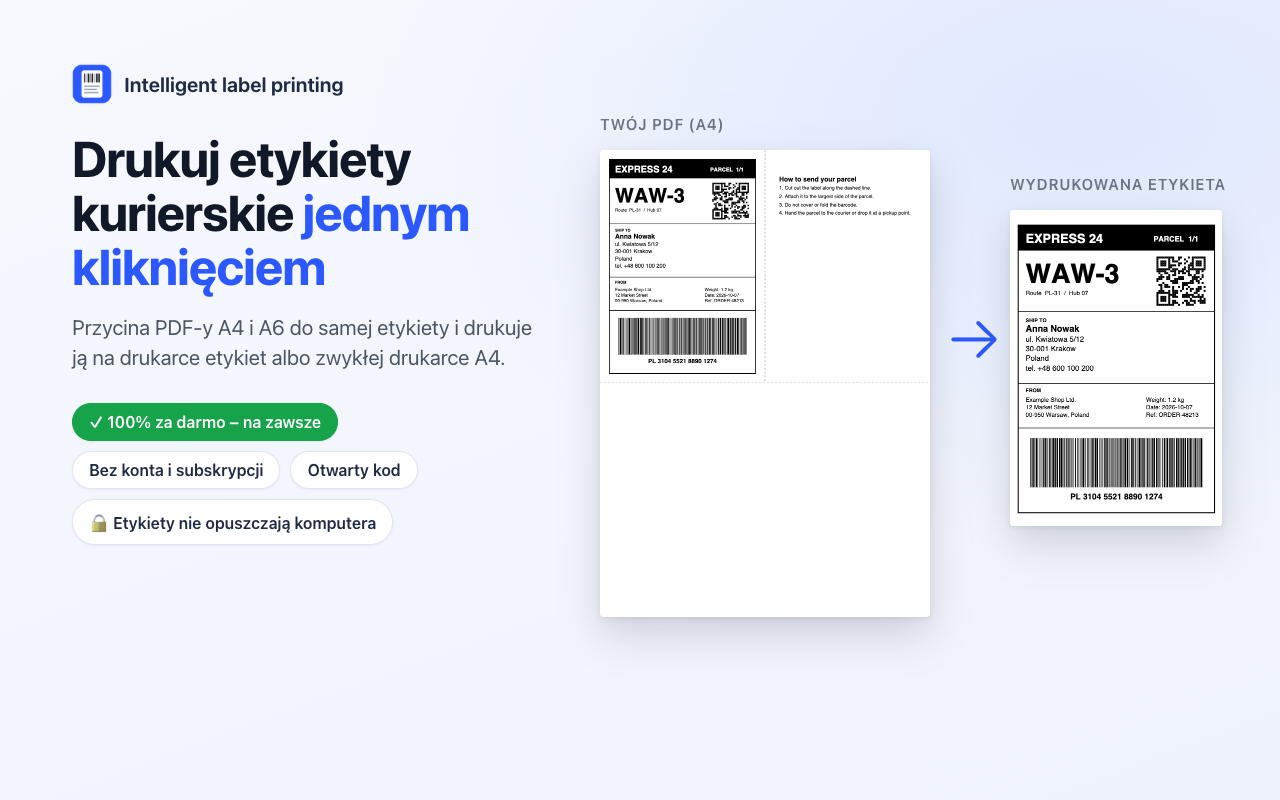
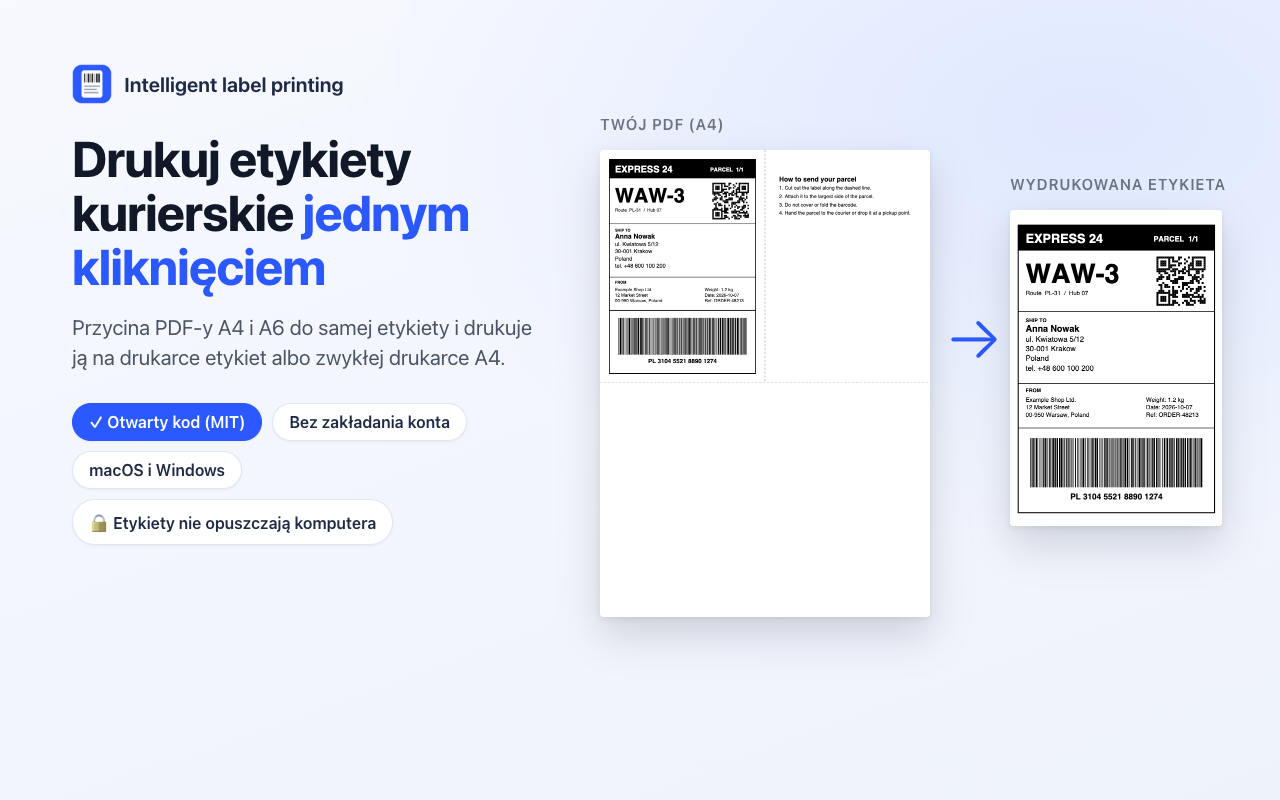
Store: remove "free" badges and wording from listing assets
The Web Store rejected the listing (Red Nickel): assets must not use
badges or keywords like "free". Screenshots and promo tiles now show
factual features; descriptions state there is no subscription, account
or paid version instead.

Changed region(s): [[0.0312, 0.5, 0.3438, 0.5938]]

diff --git a/store/screenshots/slide.html b/store/screenshots/slide.html
@@ -22,7 +22,7 @@
   .sub { font-size: 21px; line-height: 1.45; color: #4b5563; margin-top: 18px; }
   .badges { display: flex; flex-wrap: wrap; gap: 10px; margin-top: 30px; }
   .badge { display: inline-flex; align-items: center; gap: 8px; background: #fff; border: 1px solid #dfe5f2; border-radius: 999px; padding: 9px 16px; font-size: 16px; font-weight: 600; color: #1f2a44; box-shadow: 0 1px 2px rgba(16,24,40,.05); }
-  .badge.free { background: #16a34a; border-color: #16a34a; color: #fff; }
+  .badge.hi { background: #2b59ff; border-color: #2b59ff; color: #fff; }
   .badge b { color: #16a34a; }
   .paper { background: #fff; box-shadow: 0 18px 40px rgba(17,24,39,.16), 0 2px 6px rgba(17,24,39,.08); border-radius: 4px; display: block; }
   .card { background: #fff; border-radius: 14px; box-shadow: 0 24px 60px rgba(17,24,39,.18), 0 2px 8px rgba(17,24,39,.08); overflow: hidden; }
@@ -30,7 +30,6 @@
   .arrow { position: absolute; font-size: 64px; color: #2b59ff; font-weight: 300; }
   iframe { border: 0; display: block; background: #fff; }
   .left { position: absolute; left: 72px; top: 64px; width: 470px; }
-  .free-strip { position: absolute; left: 72px; bottom: 56px; font-size: 16px; color: #16a34a; font-weight: 650; }
 </style>
 </head>
 <body>
@@ -48,7 +47,7 @@ const T = {
     brand: 'Intelligent label printing',
     h1: 'Print courier labels in <em>one click</em>',
     sub1: 'Crops A4 and A6 label PDFs to the label itself and prints it on your label printer or a plain A4 printer.',
-    free: '100% free – forever', noacc: 'No account, no subscription', open: 'Open source', priv: 'Labels never leave your computer',
+    open: 'Open source (MIT)', noacc: 'No account needed', os: 'macOS & Windows', priv: 'Labels never leave your computer',
     before: 'Your PDF (A4)', after: 'Printed label',
     h2: 'Pick a printer profile. <em>Print.</em>',
     sub2: 'Print the PDF in the current tab, a right-clicked link or a recent download – straight to the printer, no print dialog.',
@@ -60,14 +59,14 @@ const T = {
     sub5: 'The label is printed in an exact A6 area with cut lines – one per sheet or four at a time.',
     one: '1 label per sheet', four: '4 labels per sheet',
     promoSub: 'Crop & print courier labels in one click',
-    promoFree: 'FREE · OPEN SOURCE',
+    promoTag: 'OPEN SOURCE · MACOS & WINDOWS',
     tab: 'label_ORDER-48213.pdf',
   },
   pl: {
     brand: 'Intelligent label printing',
     h1: 'Drukuj etykiety kurierskie <em>jednym kliknięciem</em>',
     sub1: 'Przycina PDF-y A4 i A6 do samej etykiety i drukuje ją na drukarce etykiet albo zwykłej drukarce A4.',
-    free: '100% za darmo – na zawsze', noacc: 'Bez konta i subskrypcji', open: 'Otwarty kod', priv: 'Etykiety nie opuszczają komputera',
+    open: 'Otwarty kod (MIT)', noacc: 'Bez zakładania konta', os: 'macOS i Windows', priv: 'Etykiety nie opuszczają komputera',
     before: 'Twój PDF (A4)', after: 'Wydrukowana etykieta',
     h2: 'Wybierz profil drukarki. <em>Drukuj.</em>',
     sub2: 'PDF z bieżącej karty, z linku pod prawym przyciskiem albo z pobranych – prosto do drukarki, bez okna drukowania.',
@@ -79,7 +78,7 @@ const T = {
     sub5: 'Etykieta drukuje się w dokładnym polu A6 z liniami cięcia – jedna na arkusz albo cztery naraz.',
     one: '1 etykieta na arkusz', four: '4 etykiety na arkusz',
     promoSub: 'Przycinaj i drukuj etykiety jednym kliknięciem',
-    promoFree: 'ZA DARMO · OTWARTY KOD',
+    promoTag: 'OTWARTY KOD · MACOS I WINDOWS',
     tab: 'etykieta_ZAM-48213.pdf',
   },
 }[lang];
@@ -122,7 +121,7 @@ const iframeReady = (f) => new Promise((r) => f.addEventListener('load', () => s
 
 if (slide === '1') {
   root.append(el(`<div class="left">${brand}<h1>${T.h1}</h1><p class="sub">${T.sub1}</p>
-    <div class="badges"><span class="badge free">✓ ${T.free}</span><span class="badge">${T.noacc}</span><span class="badge">${T.open}</span><span class="badge">🔒 ${T.priv}</span></div></div>`));
+    <div class="badges"><span class="badge hi">✓ ${T.open}</span><span class="badge">${T.noacc}</span><span class="badge">${T.os}</span><span class="badge">🔒 ${T.priv}</span></div></div>`));
   const a4 = await pageCanvas(src, 1, 330);
   place(a4, { left: '600px', top: '150px' });
   place(el(`<div class="cap">${T.before}</div>`), { left: '600px', top: '115px' });
@@ -134,8 +133,7 @@ if (slide === '1') {
 }
 
 if (slide === '2') {
-  root.append(el(`<div class="left">${brand}<h1>${T.h2}</h1><p class="sub">${T.sub2}</p>
-    <div class="badges"><span class="badge free">✓ ${T.free}</span></div></div>`));
+  root.append(el(`<div class="left">${brand}<h1>${T.h2}</h1><p class="sub">${T.sub2}</p></div>`));
   // browser window with the PDF open, popup on top
   const win = place(el(`<div class="card" style="width:640px;height:600px;background:#2b2d31"></div>`), { left: '580px', top: '120px' });
   win.innerHTML = `<div style="height:44px;background:#f1f3f4;display:flex;align-items:center;gap:8px;padding:0 14px;border-bottom:1px solid #dadce0">
@@ -182,8 +180,7 @@ if (slide === '4') {
 }
 
 if (slide === '5') {
-  root.append(el(`<div class="left" style="width:500px">${brand}<h1 style="font-size:46px">${T.h5}</h1><p class="sub">${T.sub5}</p>
-    <div class="badges"><span class="badge free">✓ ${T.free}</span></div></div>`));
+  root.append(el(`<div class="left" style="width:500px">${brand}<h1 style="font-size:46px">${T.h5}</h1><p class="sub">${T.sub5}</p></div>`));
   const one = await processPdf(src, newProfile({ paper: 'A4', perSheet: 1, cutMarks: true }));
   const four = await processPdf(await fourUp(), newProfile({ paper: 'A4', perSheet: 4, cutMarks: true, cropMode: 'auto' }));
   place(await pageCanvas(one.bytes, 1, 300), { left: '620px', top: '165px' });
@@ -203,7 +200,7 @@ if (slide === 'promo') {
     <img src="/ext/icons/icon128.png" style="width:52px;height:52px;border-radius:12px;box-shadow:0 4px 12px rgba(0,0,0,.25)">
     <div style="font-size:25px;font-weight:750;line-height:1.1;margin-top:14px;letter-spacing:-.01em">Intelligent label printing</div>
     <div style="font-size:14.5px;line-height:1.35;margin-top:8px;opacity:.92">${T.promoSub}</div>
-    <div style="display:inline-block;margin-top:14px;background:#16a34a;color:#fff;font-weight:750;font-size:12px;letter-spacing:.06em;padding:6px 11px;border-radius:999px">${T.promoFree}</div>
+    <div style="display:inline-block;margin-top:14px;background:rgba(255,255,255,.18);color:#fff;font-weight:750;font-size:12px;letter-spacing:.06em;padding:6px 11px;border-radius:999px">${T.promoTag}</div>
   </div>`), { left: '28px', top: '30px' });
 }
 
@@ -214,7 +211,7 @@ if (slide === 'marquee') {
   place(el(`<div style="color:#fff;width:640px">
     <div style="display:flex;align-items:center;gap:14px;font-size:22px;font-weight:650"><img src="/ext/icons/icon128.png" style="width:48px;height:48px;border-radius:11px">Intelligent label printing</div>
     <div style="font-size:54px;font-weight:780;line-height:1.06;margin-top:26px;letter-spacing:-.02em">${T.h1.replace(/<\/?em>/g, '')}</div>
-    <div style="display:inline-block;margin-top:26px;background:#16a34a;color:#fff;font-weight:750;font-size:17px;letter-spacing:.06em;padding:9px 16px;border-radius:999px">${T.promoFree}</div>
+    <div style="display:inline-block;margin-top:26px;background:rgba(255,255,255,.18);color:#fff;font-weight:750;font-size:17px;letter-spacing:.06em;padding:9px 16px;border-radius:999px">${T.promoTag}</div>
   </div>`), { left: '80px', top: '96px' });
   const a4 = await pageCanvas(src, 1, 250);
   place(a4, { left: '800px', top: '70px', transform: 'rotate(-4deg)' });

diff --git a/helper/main.go b/helper/main.go
@@ -20,7 +20,7 @@ import (
 )
 
 const (
-	Version  = "2.0.5"
+	Version  = "2.0.6"
 	HostName = "com.intelligent_label_printing.host"
 	maxChunk = 600 * 1024 // file bytes per message (helper -> Chrome is limited to 1 MB)
 )

diff --git a/store/LISTING.md b/store/LISTING.md
@@ -10,13 +10,13 @@ The short description comes from `extension/_locales/*/messages.json` (`extDescr
 ### Name
 Intelligent label printing
 
-### Short description (122 / 132)
-Free, open-source courier label printing: crops A4/A6 label PDFs and prints them on your label or A4 printer in one click.
+### Short description
+Open-source courier label printing: crops A4/A6 label PDFs and prints them on your label or A4 printer in one click.
 
 ### Detailed description
 
-**Print courier labels in one click – completely free, forever.**
-No subscription, no trial, no account, no "pro" plan. Intelligent label printing is free and open source, and it will stay that way.
+**Print courier labels in one click.**
+No subscription, no account, no paid version – every feature is available to everyone, and the code is open source.
 
 Some carriers give you the label as a full A6 page, others put it on a quarter of an A4 sheet. This extension handles both: it finds the label in the PDF, crops the white margins, and prints it the right way on the printer you choose.
 
@@ -25,7 +25,7 @@ Some carriers give you the label as a full A6 page, others put it on a quarter o
 • Skips instructions and small text next to the label automatically.
 • Splits several labels on one A4 page into separate labels.
 • Rotates and scales the label to fit your paper.
-• Prints directly to the selected printer – no print dialog (with the free helper app).
+• Prints directly to the selected printer – no print dialog (with the helper app).
 
 ★ WORKS WITH YOUR PRINTER
 • Label printers (Brother QL, Zebra, Munbyn, Xprinter and other thermal printers): the label fills the whole label – A6, 100×150 mm, 4×6" or any custom size.
@@ -46,12 +46,12 @@ Set up several printers as profiles (e.g. "Label printer" and "A4 office printer
 ★ PRIVATE BY DESIGN
 All processing happens on your computer. Your labels – with your customers' names and addresses – are never uploaded anywhere. No tracking, no analytics.
 
-★ ONE-CLICK PRINTING NEEDS A SMALL FREE HELPER
-Chrome does not let extensions print to a chosen printer without showing a dialog. A small, free, open-source helper app (macOS and Windows) does that part. The extension shows you where to download it and how to install it. Without the helper the extension still crops your labels and prints through the normal print dialog.
+★ ONE-CLICK PRINTING NEEDS A SMALL HELPER APP
+Chrome does not let extensions print to a chosen printer without showing a dialog. A small open-source helper app (macOS and Windows) does that part. The extension shows you where to download it and how to install it. Without the helper the extension still crops your labels and prints through the normal print dialog.
 
-★ FREE AND OPEN SOURCE
+★ OPEN SOURCE
 Source code: https://github.com/kepak1/intelligent-label-printing (MIT license).
-If the extension saves you time, you can support it on Ko-fi: https://ko-fi.com/kepak1 – donations pay for code signing, so the helper installs without security warnings. Donating is entirely optional and does not unlock anything; every feature is free for everyone.
+If the extension saves you time, you can support it on Ko-fi: https://ko-fi.com/kepak1 – donations pay for code signing, so the helper installs without security warnings. Donating is entirely optional and does not unlock anything – every feature is available to everyone.
 
 Interface languages: English, Polish.
 
@@ -65,13 +65,13 @@ Tools (alternative: Productivity → Workflow & Planning)
 ### Nazwa
 Intelligent label printing
 
-### Krótki opis (120 / 132)
-Darmowe drukowanie etykiet kurierskich: przycina PDF-y A4/A6 i drukuje je jednym kliknięciem na drukarce etykiet lub A4.
+### Krótki opis
+Drukowanie etykiet kurierskich: przycina PDF-y A4/A6 i drukuje je jednym kliknięciem na drukarce etykiet lub A4. Otwarty kod.
 
 ### Pełny opis
 
-**Drukuj etykiety kurierskie jednym kliknięciem – całkowicie za darmo, na zawsze.**
-Bez subskrypcji, bez okresu próbnego, bez zakładania konta, bez wersji „pro”. Intelligent label printing jest darmowa i ma otwarty kod źródłowy – i tak zostanie.
+**Drukuj etykiety kurierskie jednym kliknięciem.**
+Bez subskrypcji, bez zakładania konta, bez płatnej wersji – wszystkie funkcje są dostępne dla każdego, a kod jest otwarty.
 
 Jedni kurierzy dają etykietę jako całą stronę A6, inni umieszczają ją na ćwiartce kartki A4. Wtyczka radzi sobie z obydwoma przypadkami: znajduje etykietę w PDF-ie, obcina białe marginesy i drukuje ją poprawnie na wybranej drukarce.
 
@@ -80,7 +80,7 @@ Jedni kurierzy dają etykietę jako całą stronę A6, inni umieszczają ją na 
 • Automatycznie pomija instrukcje i drobny tekst obok etykiety.
 • Rozdziela kilka etykiet z jednej strony A4 na osobne wydruki.
 • Obraca i skaluje etykietę tak, by pasowała do papieru.
-• Drukuje od razu na wybranej drukarce – bez okna drukowania (z darmowym programem pomocniczym).
+• Drukuje od razu na wybranej drukarce – bez okna drukowania (z programem pomocniczym).
 
 ★ DZIAŁA Z TWOJĄ DRUKARKĄ
 • Drukarki etykiet (Brother QL, Zebra, Munbyn, Xprinter i inne termiczne): etykieta wypełnia całą naklejkę – A6, 100×150 mm, 4×6" albo dowolny własny rozmiar.
@@ -101,12 +101,12 @@ Ustaw kilka drukarek jako profile (np. „Drukarka etykiet” i „Drukarka A4 w
 ★ PRYWATNOŚĆ
 Wszystko dzieje się na Twoim komputerze. Etykiety – z imionami i adresami Twoich klientów – nigdy nie są nigdzie wysyłane. Bez śledzenia i bez statystyk.
 
-★ DRUK JEDNYM KLIKNIĘCIEM WYMAGA MAŁEGO, DARMOWEGO PROGRAMU
-Chrome nie pozwala wtyczkom drukować na wybraną drukarkę bez okna dialogowego. Robi to mały, darmowy program pomocniczy z otwartym kodem (macOS i Windows). Wtyczka pokaże, skąd go pobrać i jak zainstalować. Bez niego wtyczka nadal przycina etykiety i drukuje przez zwykłe okno drukowania.
+★ DRUK JEDNYM KLIKNIĘCIEM WYMAGA MAŁEGO PROGRAMU POMOCNICZEGO
+Chrome nie pozwala wtyczkom drukować na wybraną drukarkę bez okna dialogowego. Robi to mały program pomocniczy z otwartym kodem (macOS i Windows). Wtyczka pokaże, skąd go pobrać i jak zainstalować. Bez niego wtyczka nadal przycina etykiety i drukuje przez zwykłe okno drukowania.
 
-★ DARMOWA I OTWARTA
+★ OTWARTY KOD
 Kod źródłowy: https://github.com/kepak1/intelligent-label-printing (licencja MIT).
-Jeśli wtyczka oszczędza Ci czas, możesz ją wesprzeć na Ko-fi: https://ko-fi.com/kepak1 – wpłaty pokryją podpisywanie aplikacji, żeby program pomocniczy instalował się bez ostrzeżeń. Wsparcie jest całkowicie dobrowolne i niczego nie odblokowuje – wszystkie funkcje są darmowe dla wszystkich.
+Jeśli wtyczka oszczędza Ci czas, możesz ją wesprzeć na Ko-fi: https://ko-fi.com/kepak1 – wpłaty pokryją podpisywanie aplikacji, żeby program pomocniczy instalował się bez ostrzeżeń. Wsparcie jest całkowicie dobrowolne i niczego nie odblokowuje – wszystkie funkcje są dostępne dla każdego.
 
 Języki interfejsu: angielski, polski.
 
